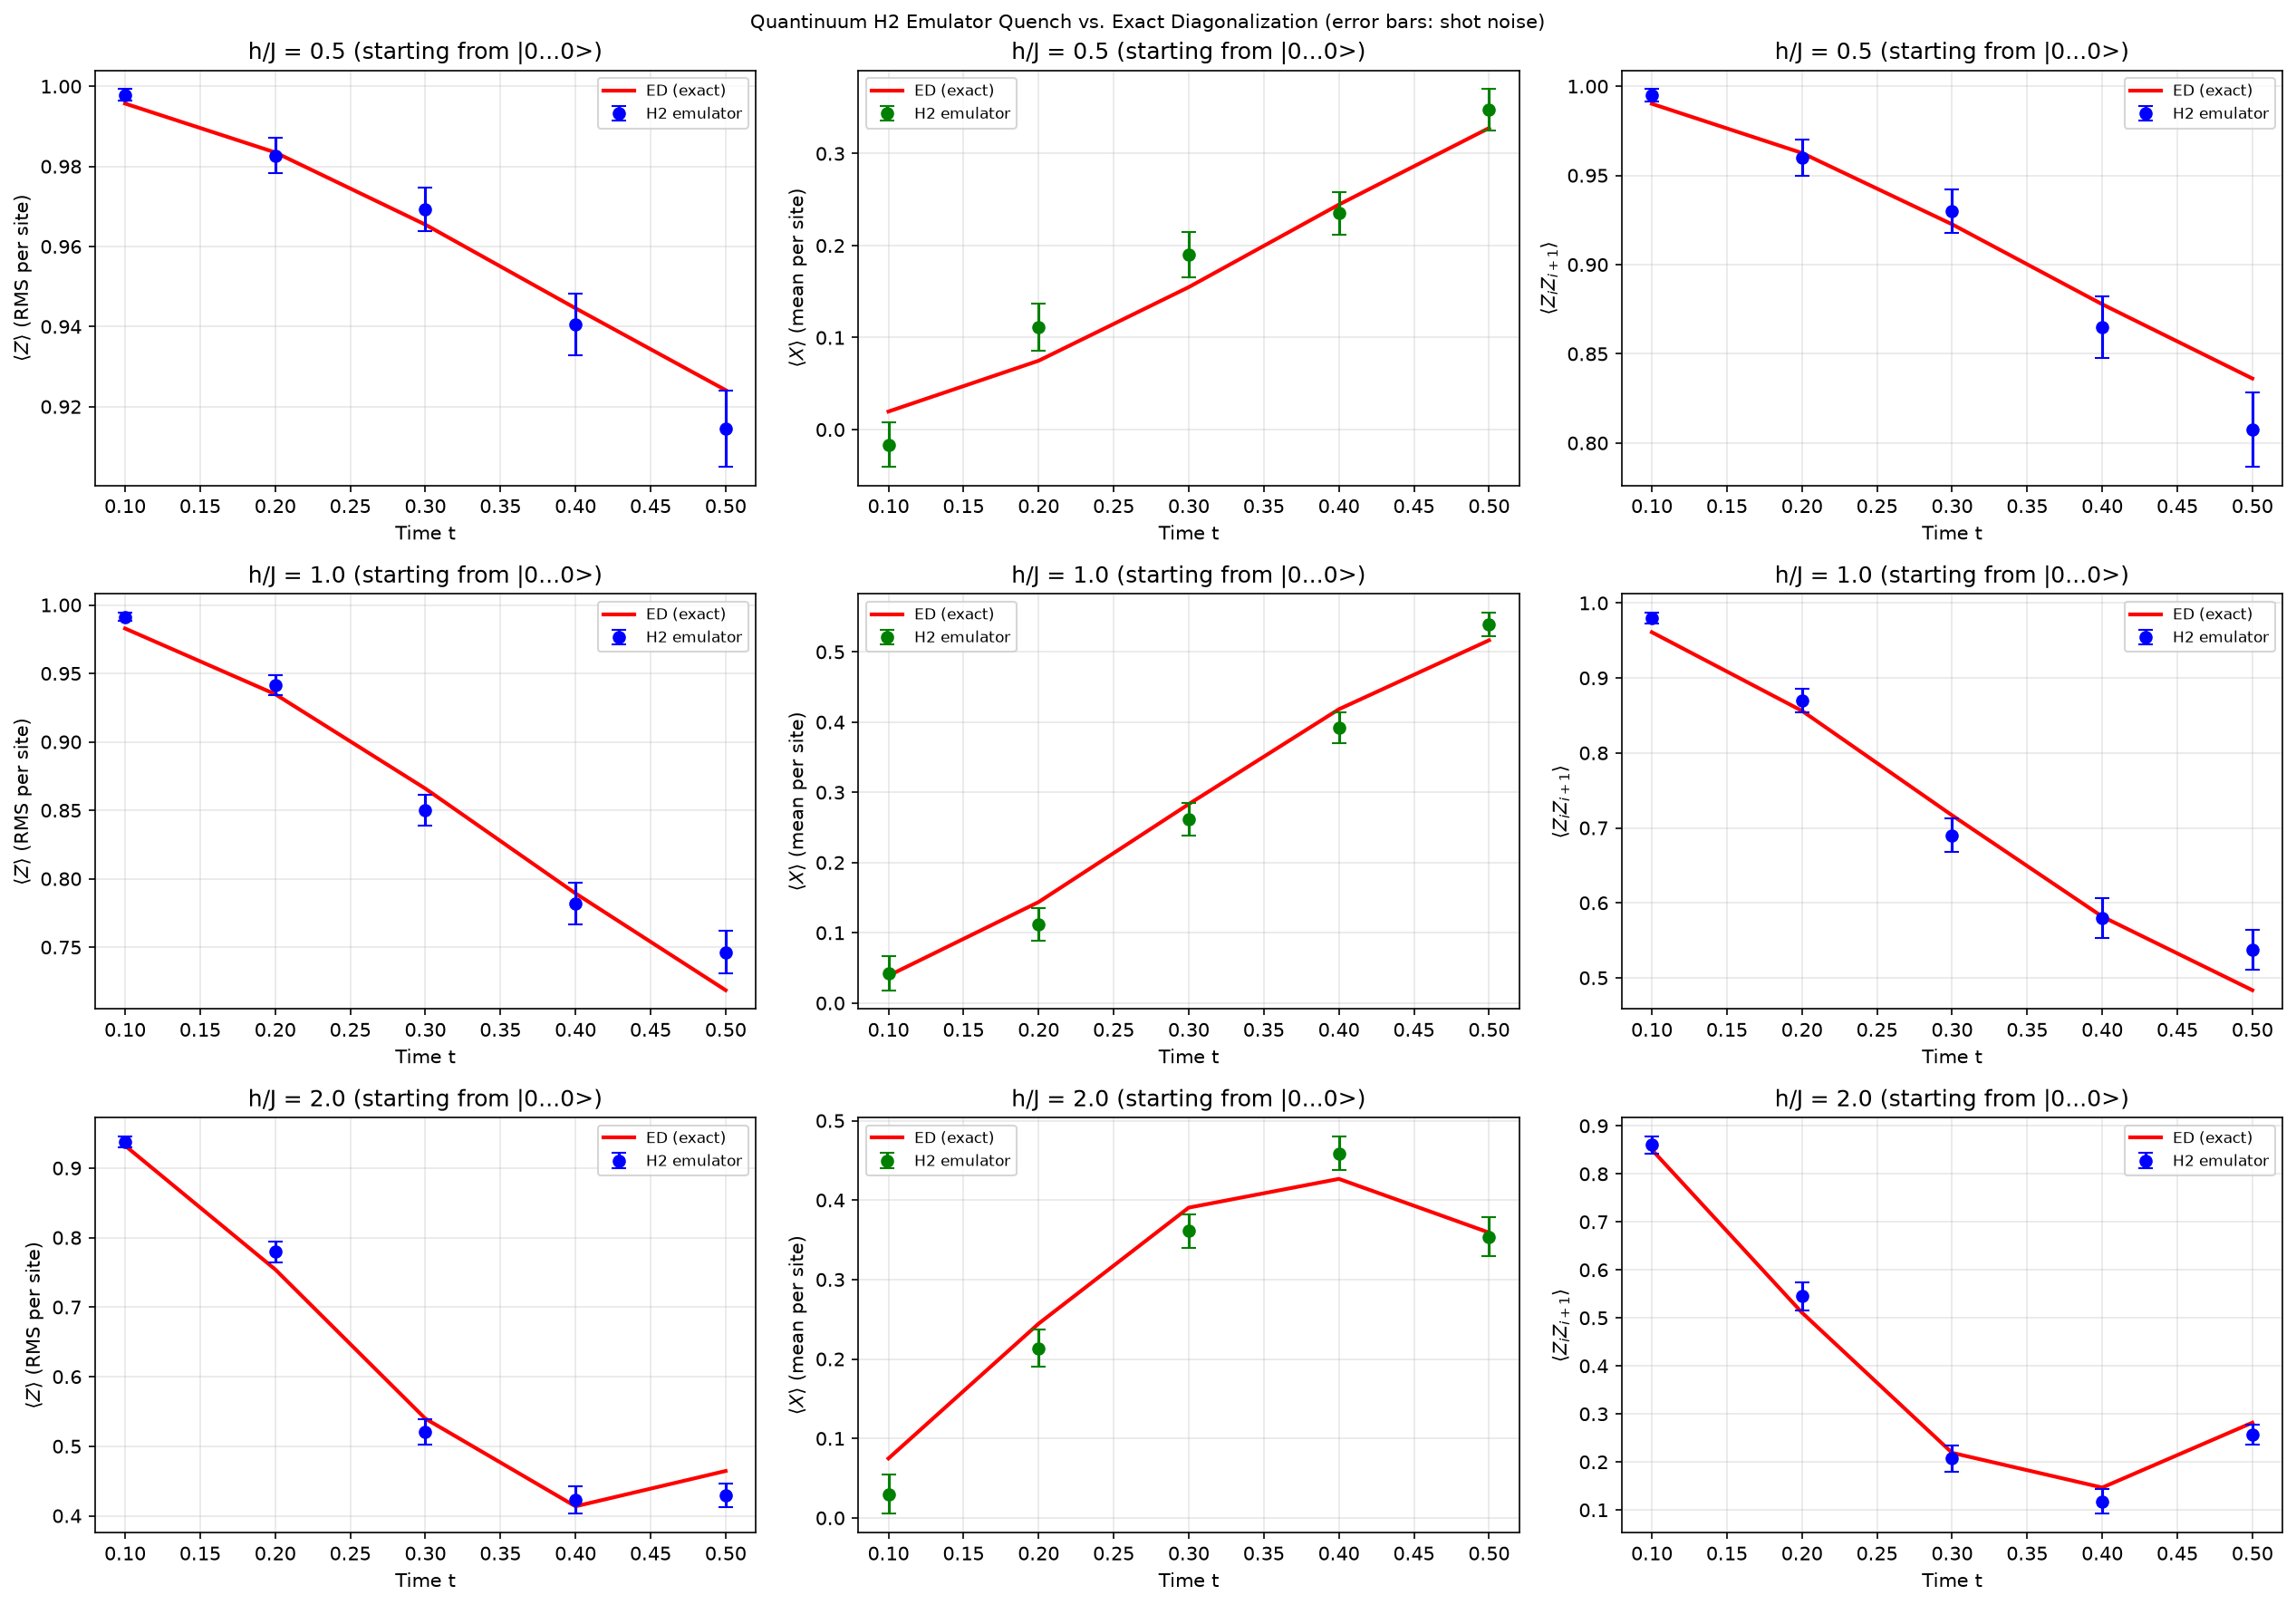
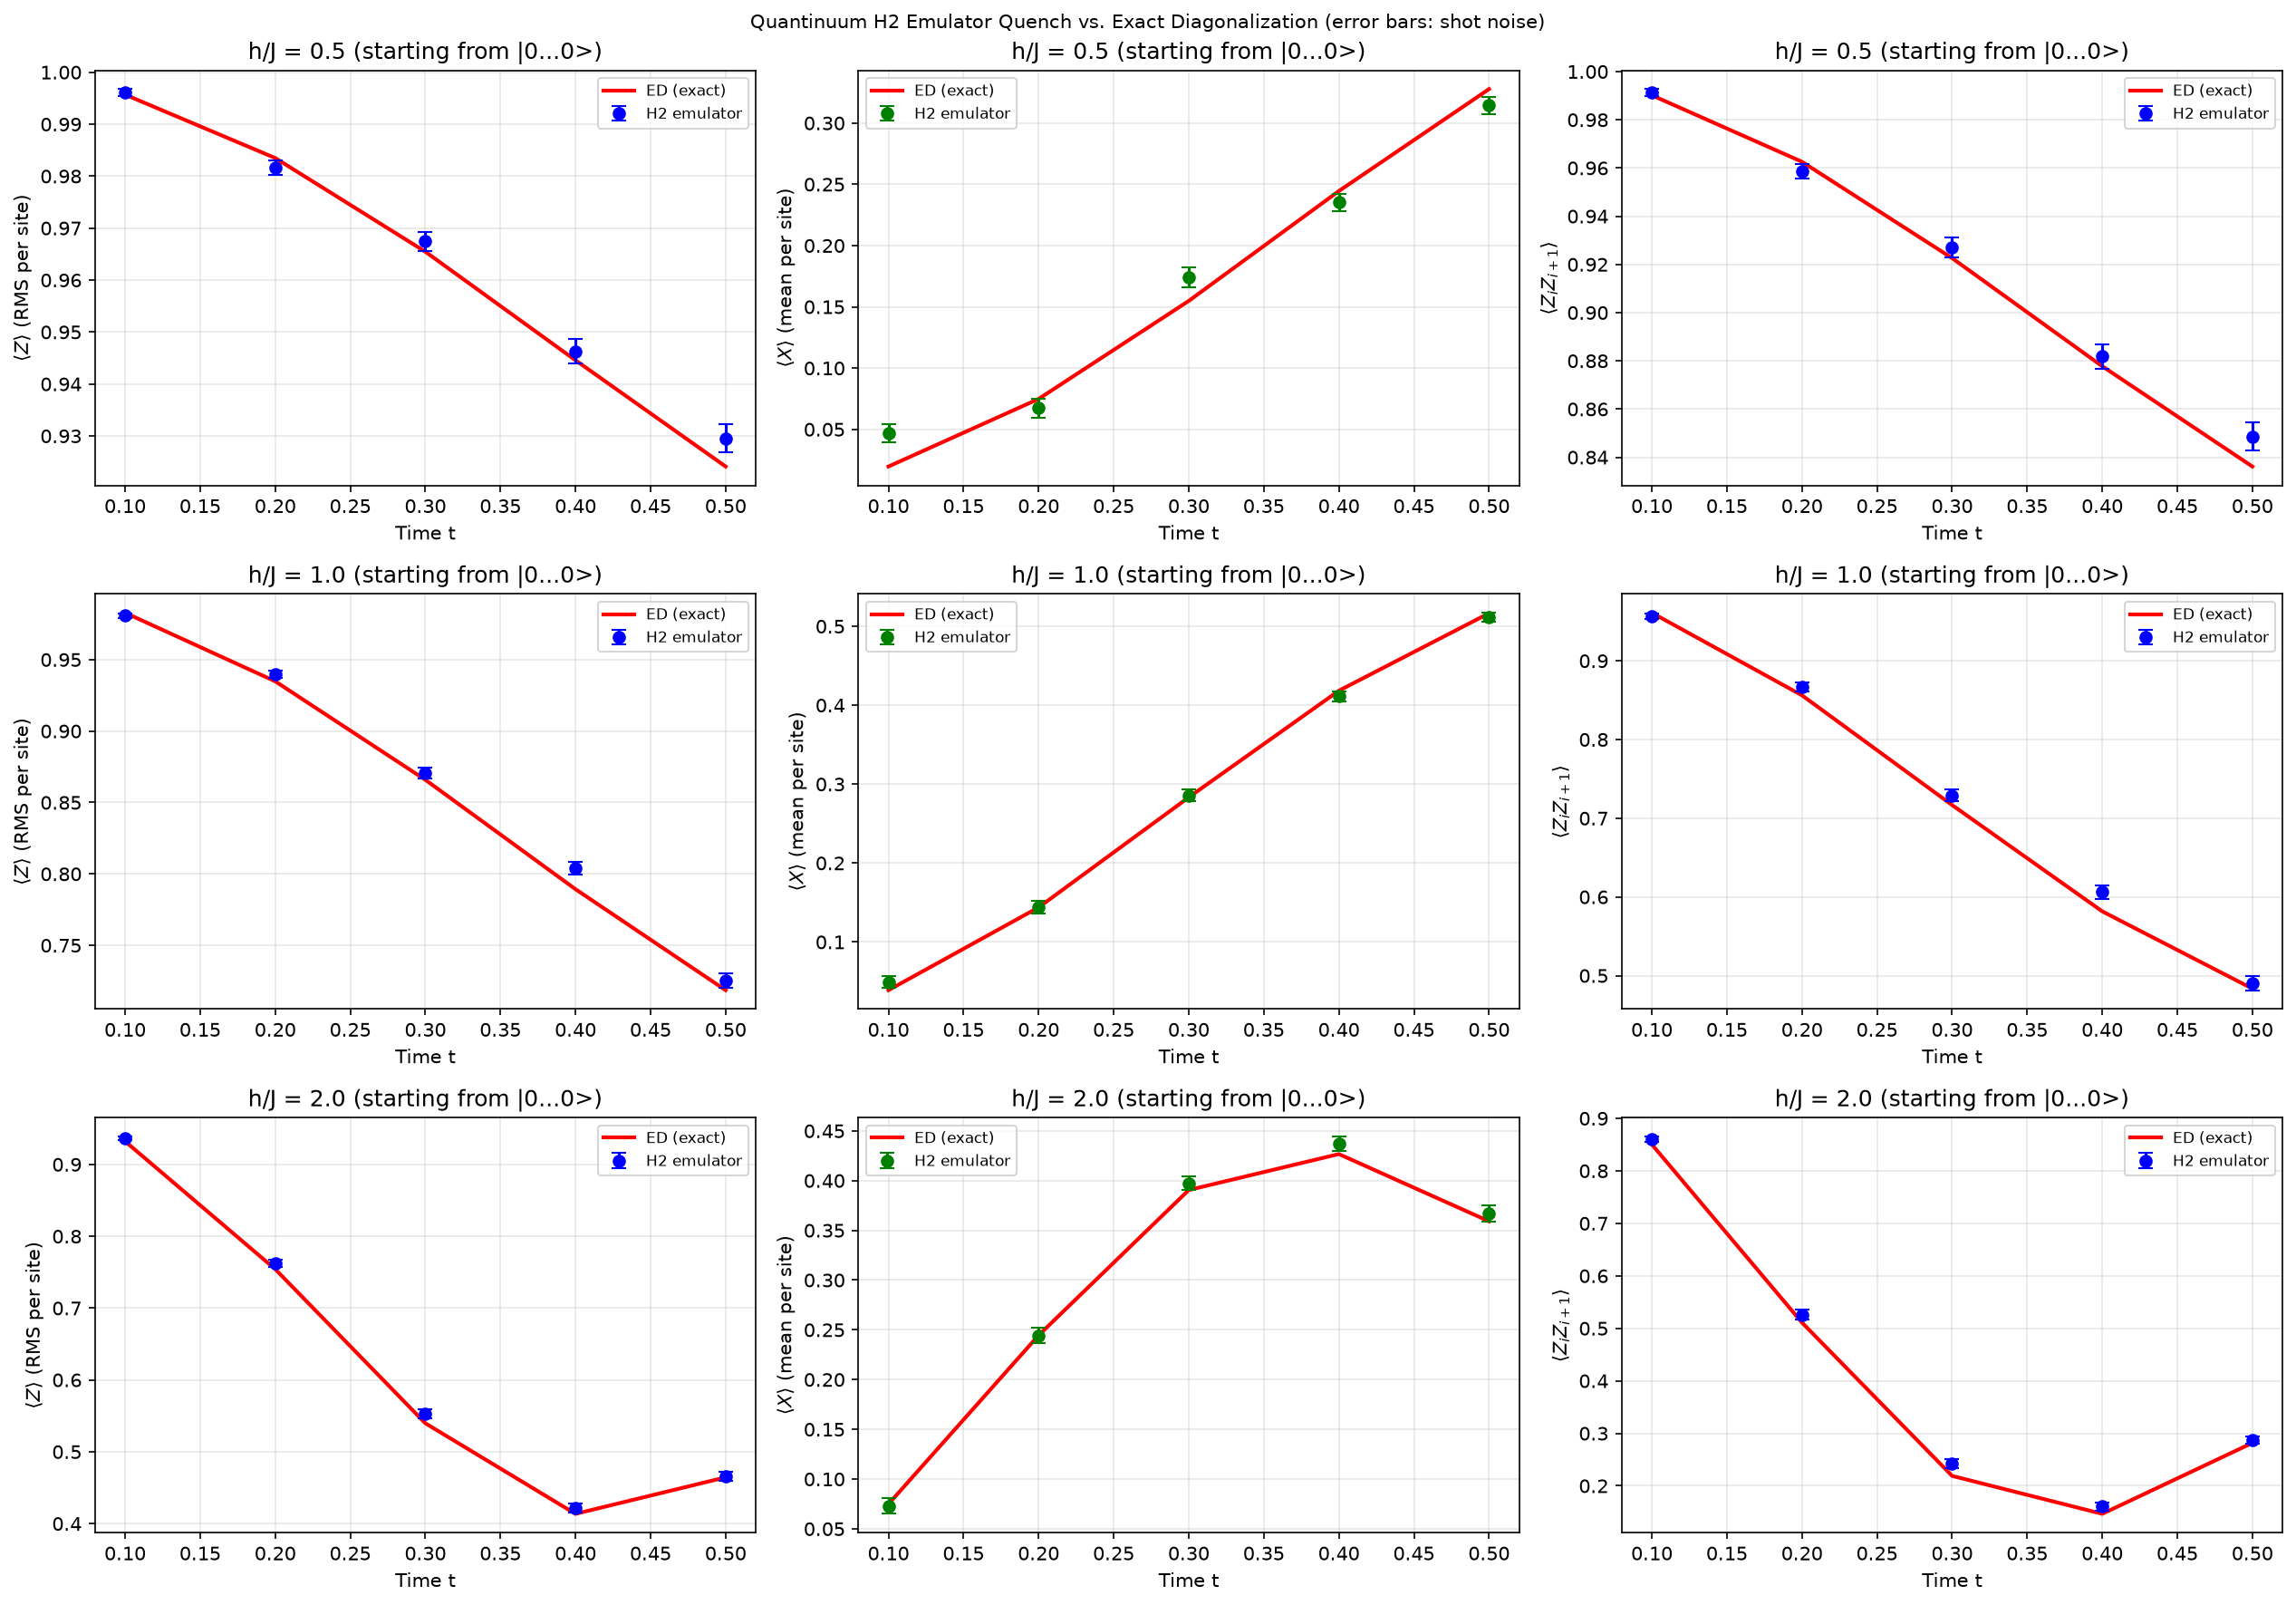
Generate short-time (T=0.5) noise-scale comparison figures; fix broken VQE-hybrid import
Ran run_noise_scale_comparison() for real against qnexus (N=8, steps=5,
H2-1LE noiseless + H2-Emulator at noise_scale=3 and 5, 2000 shots) --
figures/h2_noise_comparison_N8_S5_scale{3,5}.png show the requested
shorter-time (T=0.5, vs. N8_S30's T=3.0), amplified-noise counterpart to
h2_noise_comparison_N8_S30.png.

Also fixes run_vqe_hybrid(), which top-level-imported a submit_vqe_batch_job
that no longer exists in either backend after the VqeSession refactor
(commit 5575294) -- broke importing run_h2_emulator.py at all, including
plain run(). Switched to session_cls=Local/NexusVqeSession, matching the
pattern run_vqe() already uses.

Claude-Session: https://claude.ai/code/session_01BuWqofqSR8D9Pth5R77PY8

diff --git a/src/run_h2_emulator.py b/src/run_h2_emulator.py
@@ -55,8 +55,6 @@ from shot_observables import (
 )
 
 from vqe import run_vqe_h2
-from local_emulator_backend import submit_vqe_batch_job as local_submit
-from qnexus_backend import submit_vqe_batch_job as nexus_submit
 
 
 def run(local=False, noisy=False, n=None, steps=None, shots=None, timeout=None, noise_scale=None):
@@ -459,6 +457,9 @@ def run_vqe_hybrid(noisy = False):
     print(f"H2 VQE HYBRID (local optimization -> {device_name} confirmation)")
     print("=" * 60)
 
+    from local_emulator_backend import VqeSession as LocalVqeSession
+    from qnexus_backend import VqeSession as NexusVqeSession
+
     ed_results = ed_baseline(config.H2_VQE_N, config.H2_H_VALUES, J = config.J)
 
     results = {}
@@ -468,7 +469,7 @@ def run_vqe_hybrid(noisy = False):
         local_result = run_vqe_h2(
             config.H2_VQE_N, h, config.J, config.H2_VQE_SHOTS_LOCAL,
             config.H2_VQE_MAX_ITERS_LOCAL, config.H2_VQE_TOL, config.H2_VQE_SEED,
-            submit_fn=local_submit, raw_stage="h2_vqe_raw_local",
+            session_cls=LocalVqeSession, raw_stage="h2_vqe_raw_local",
             ansatz=config.H2_VQE_ANSATZ, p=config.H2_VQE_P,
             )
 
@@ -479,7 +480,7 @@ def run_vqe_hybrid(noisy = False):
             config.H2_VQE_N, h, config.J, config.H2_VQE_SHOTS,
             1, config.H2_VQE_TOL, config.H2_VQE_SEED,
             device_name=device_name, project_name=config.H2_PROJECT_NAME,
-            submit_fn=nexus_submit, raw_stage="h2_vqe_raw_hybrid",
+            session_cls=NexusVqeSession, raw_stage="h2_vqe_raw_hybrid",
             ansatz=config.H2_VQE_ANSATZ, p=config.H2_VQE_P,
             fixed_params=local_result['final_params'],
         )